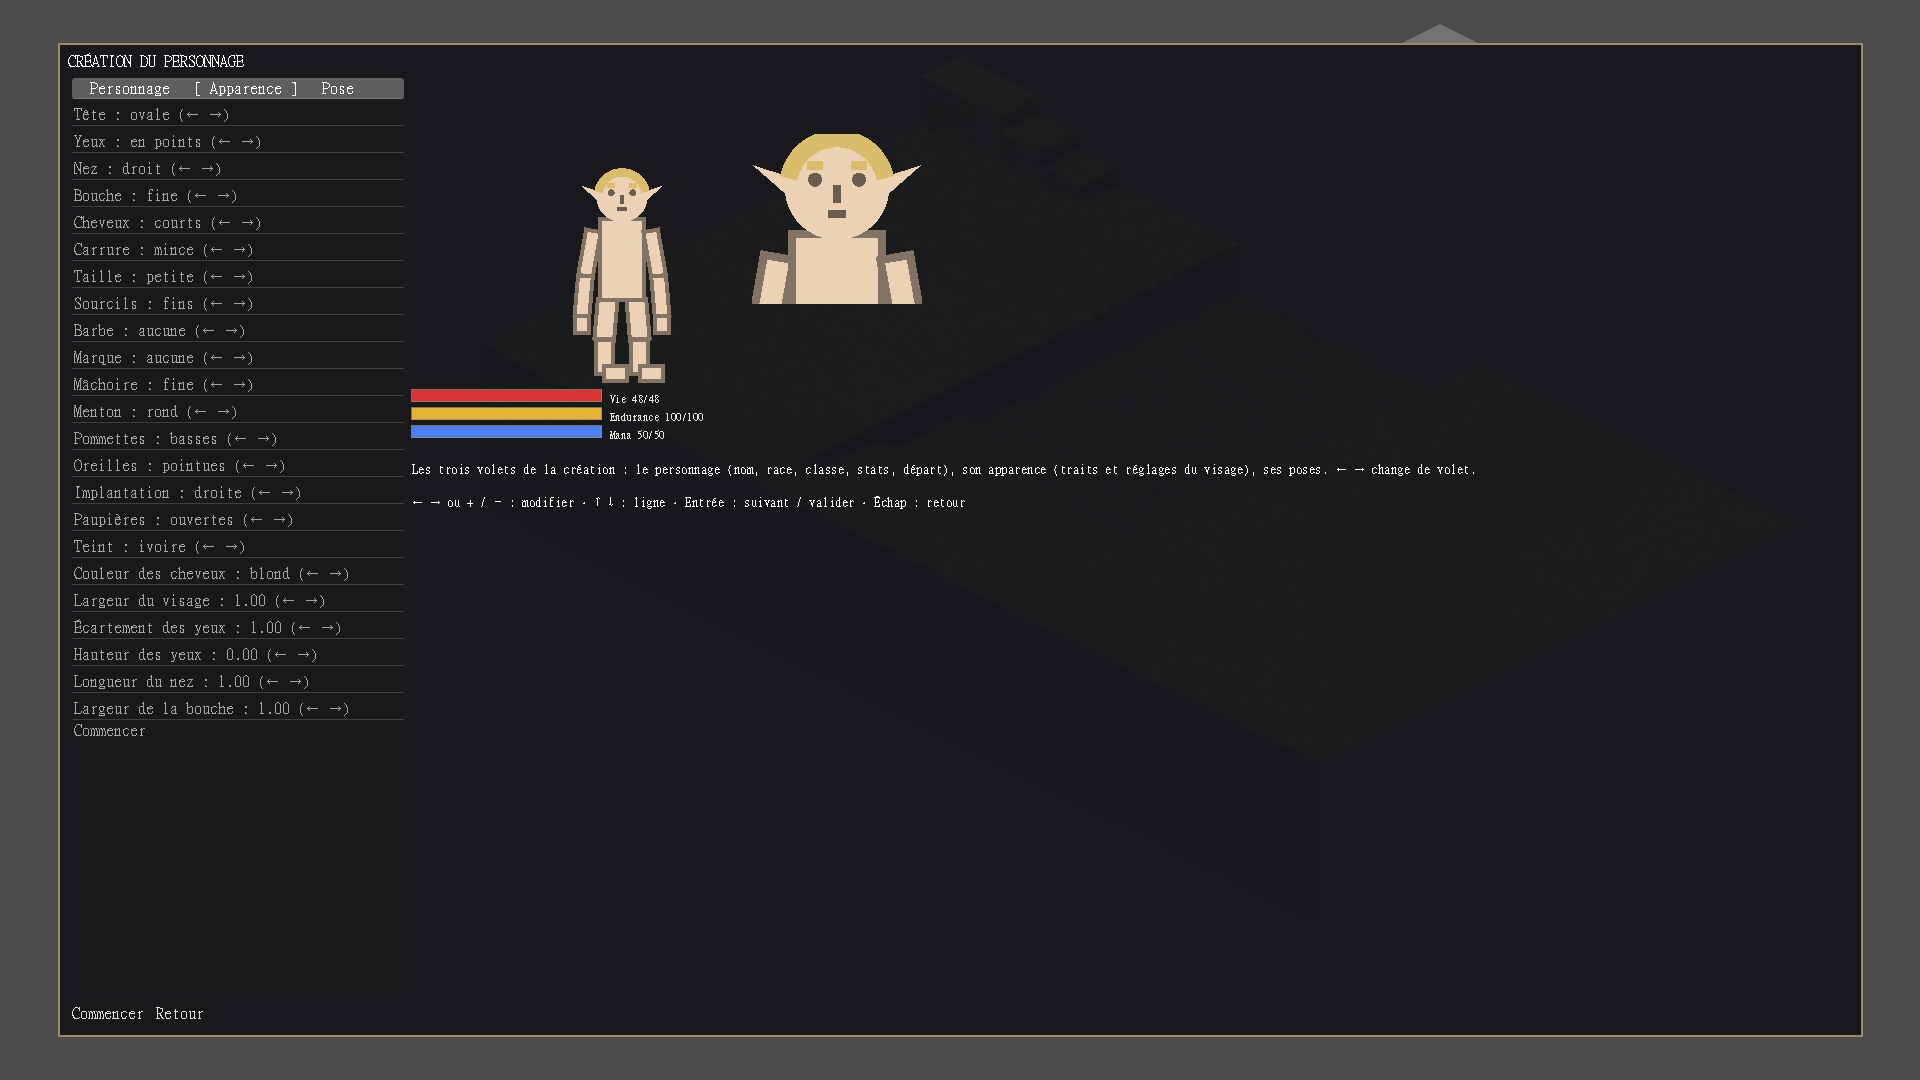
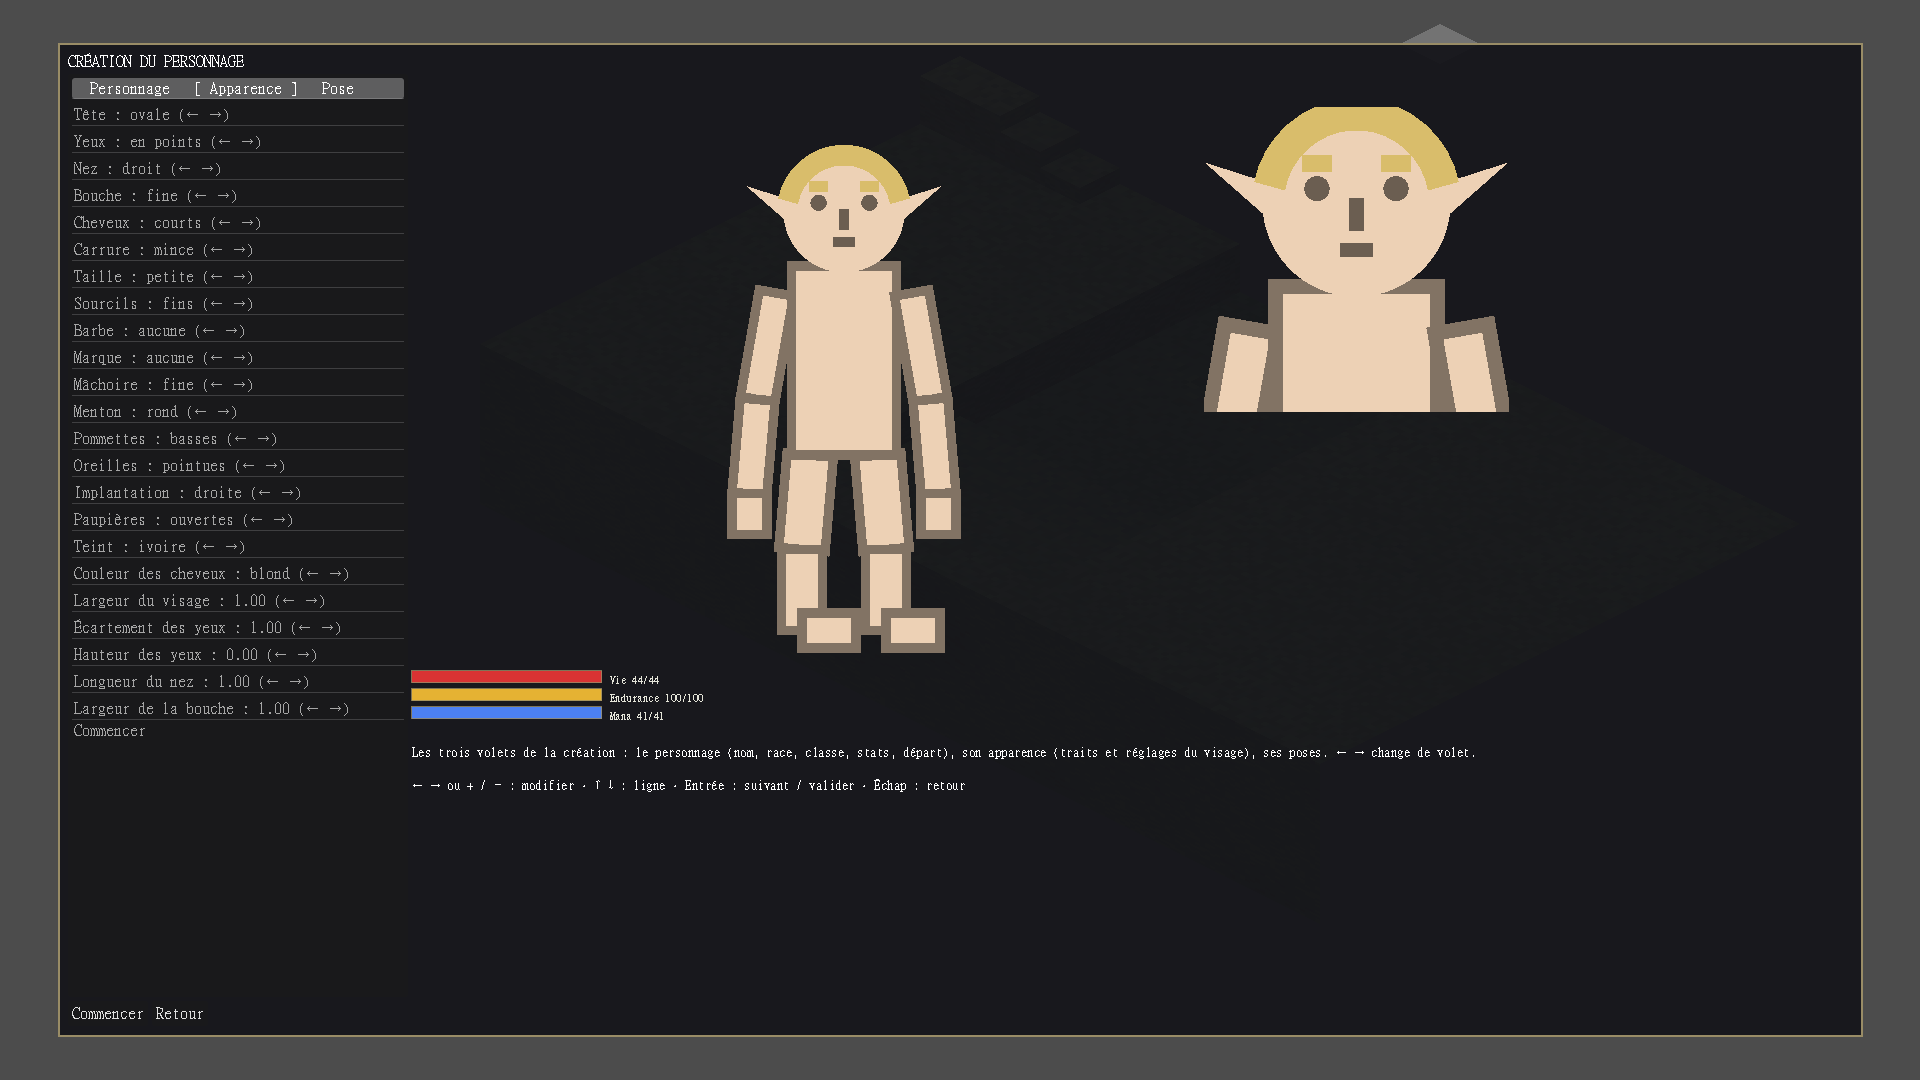
L'ecran de creation etait pose en pixels fixes : les deux tiers du bas restaient noirs
Le panneau prenait 94 % de la fenetre mais son apercu ne suivait pas :
personnage a (210, 300) au facteur 5,4, portrait a (340, 60) sur
170 x 170, jauges a y = 316, dans un cadre haut de 380 px. Le cadre
s'etire maintenant avec sa colonne et ses trois elements se replacent
au redimensionnement, sur des proportions lues dans styles.creation.
Verifie en 1920x1080 et en 1280x800 : rien n'est coupe, rien ne flotte.

Changed region(s): [[0.1875, 0.1222, 0.5, 0.6111], [0.625, 0.0917, 0.7812, 0.3972], [0.2188, 0.6111, 0.3438, 0.6722]]

diff --git a/docs/08 - Technique/Écrans d'interface.md b/docs/08 - Technique/Écrans d'interface.md
@@ -137,6 +137,10 @@ Inventaire+équipement (avec poids), Craft (recettes des stations à portée, [[
 > Le clic existait déjà mais **ne visait rien** : il cherchait « le membre dont l'ancrage est le plus proche », or cet ancrage était recalculé à `(0, −hauteur_pieds − longueur/2)` pour *tous* les segments — l'abscisse du clic était ignorée et on saisissait un membre au hasard parmi ceux de même longueur. Le paperdoll expose maintenant `segment_sous(point)` — il connaît la position réelle de chaque segment puisqu'il vient de les dessiner (chaîne des parents, ancrages, angles de pose) — et rend le segment dont **le corps**, pas l'ancrage, passe le plus près du curseur (au-delà de `poses.marge_saisie`, rien n'est saisi). Le glissement ne convertit plus des pixels en degrés : le membre **suit le curseur**, tournant de l'angle parcouru autour de son joint. Le membre saisi est cerclé et souligné. Vérifié en synthétisant de vrais clics (`capture.tscn -- --creation --volet 2 --saisir <segment>`) : bras, jambe et tête visés, bras, jambe et tête saisis.
 
 
+> [!success] Codé le 2026-09-01 — l'aperçu de la création occupe la fenêtre (designer, point 67)
+> « fais en sorte que tous les menus et écrans se resize à la taille de la fenêtre pour que rien ne soit coupé ». Premier écran traité, le plus criant : la création. Le panneau prenait bien 94 % × 92 % de la fenêtre, mais **l'aperçu était posé en pixels fixes** — personnage à `(210, 300)` au facteur 5,4, portrait à `(340, 60)` sur 170 × 170, jauges à `y = 316` — dans un cadre haut de 380 px. Sur 1080 de haut, les deux tiers du bas restaient noirs ; sur une fenêtre courte, le personnage débordait. Le cadre **s'étire** désormais avec la colonne, et ses trois éléments se replacent à chaque redimensionnement selon des **proportions lues dans `styles.creation`** : le personnage est mis à l'échelle de la hauteur disponible (bornée), le portrait est un carré proportionnel, les jauges se calent sous le personnage. Rien n'est coupé, rien ne flotte.
+
+
 ## Liens
 - **Dépend de** : [[Direction artistique]], [[Localisation]]
 - **Alimente** : [[Combat tactique sur grille]], [[Craft compositionnel]], [[Habitat des PNJ]], [[Entretien et taxes]]
